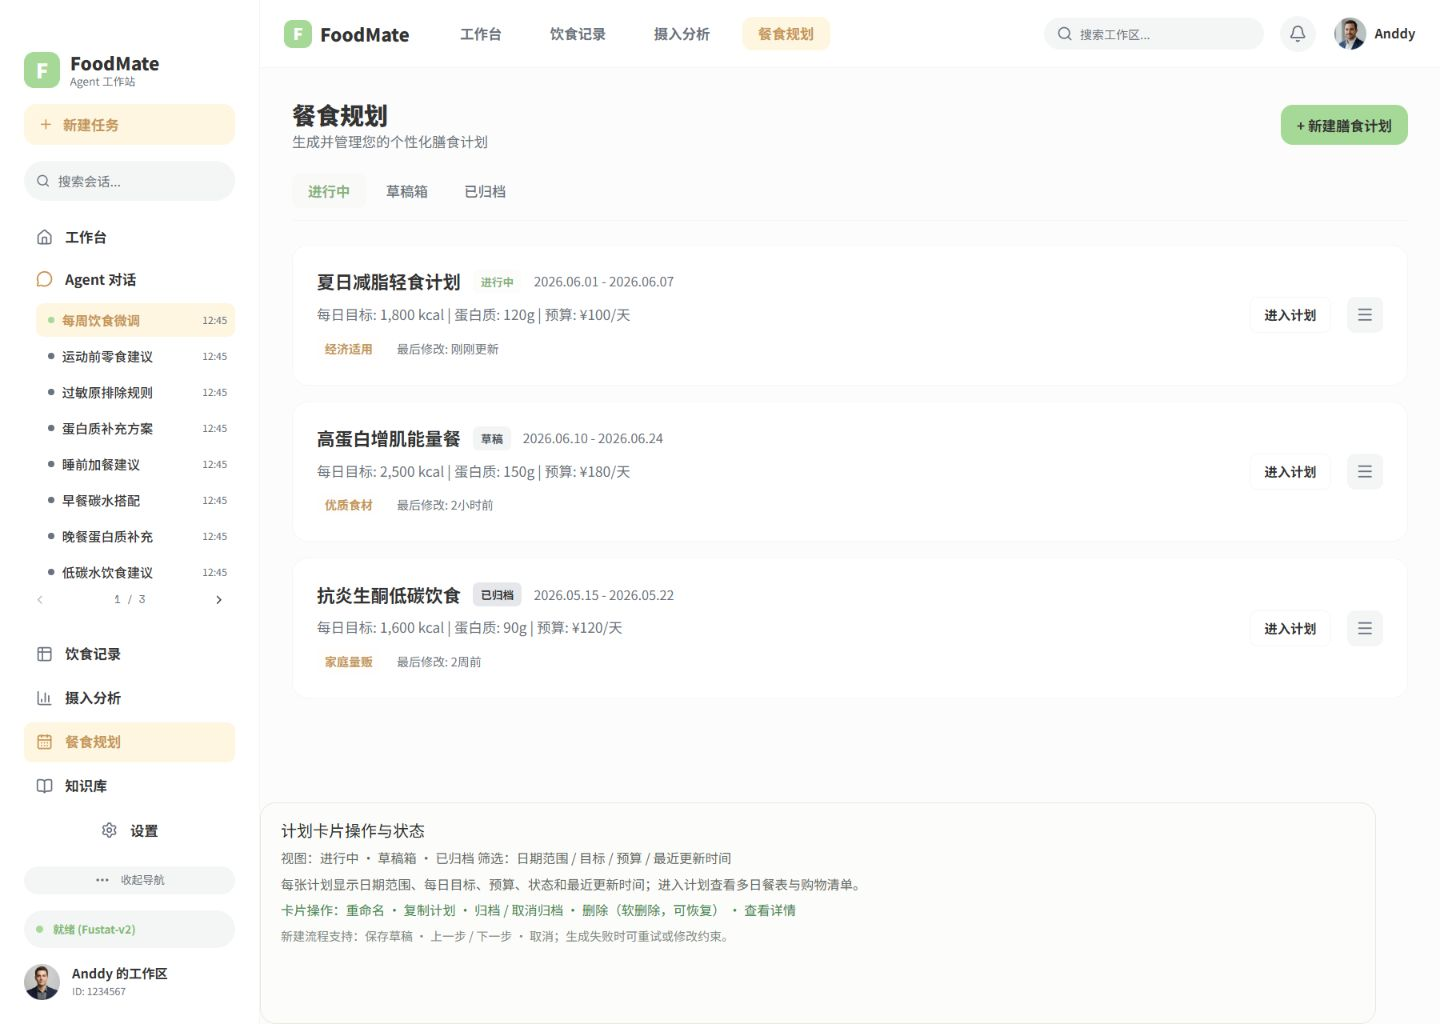
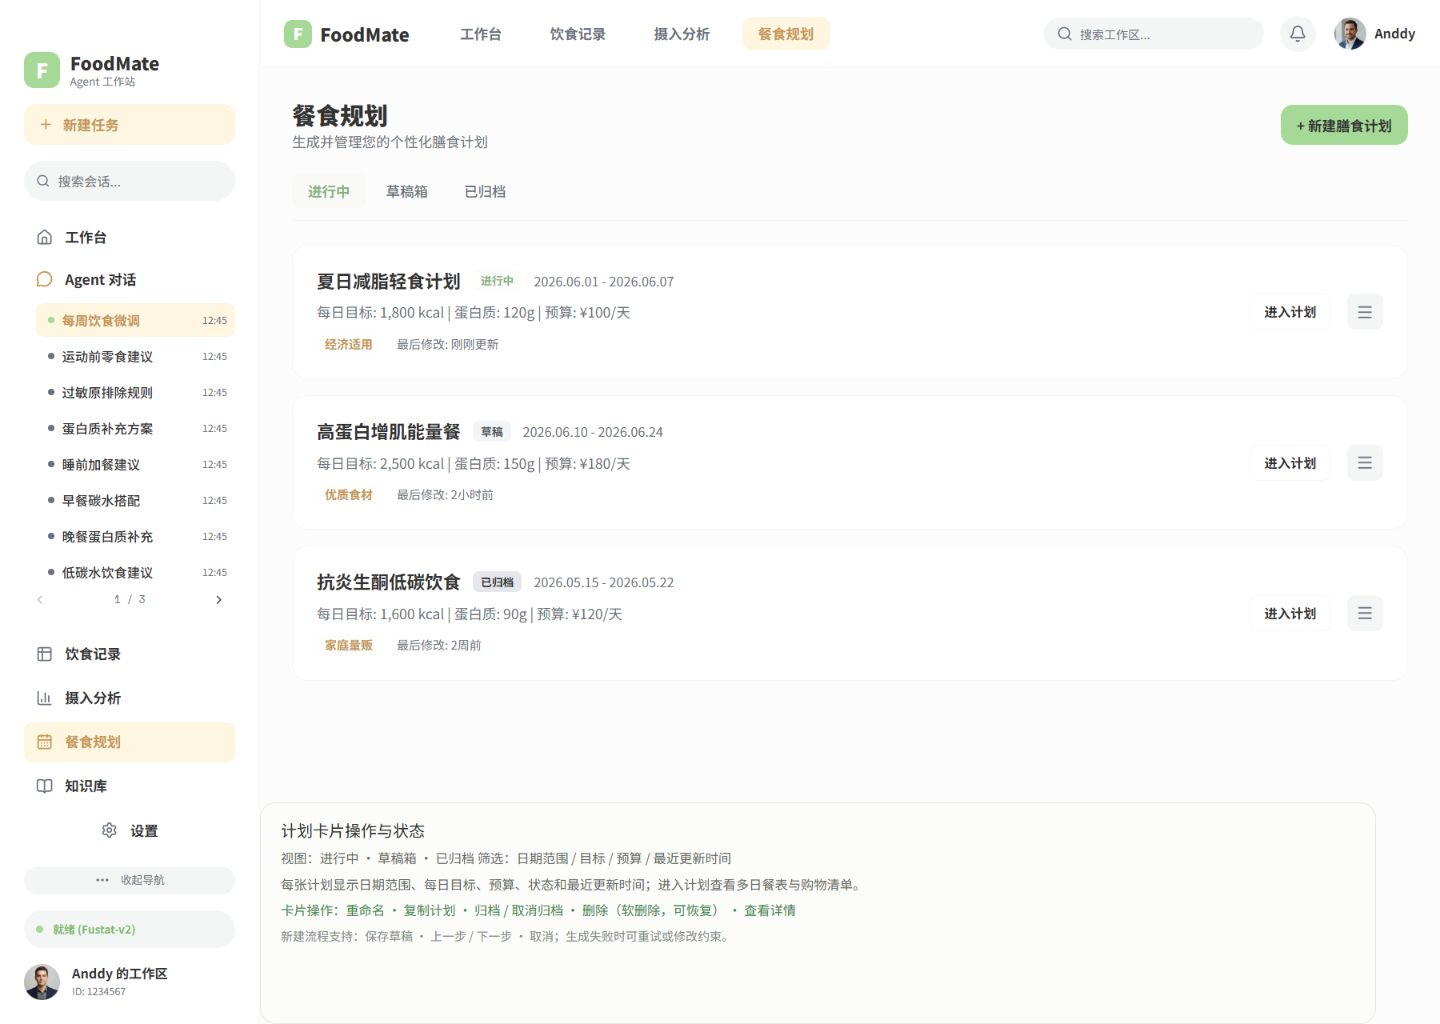
fix(餐食规划): 对齐计划卡文字行盒

diff --git a/foodmate-ui/src/pages/PlanningPage/MealPlanningFlow.module.css b/foodmate-ui/src/pages/PlanningPage/MealPlanningFlow.module.css
@@ -176,7 +176,7 @@
   font-family: 'Noto Sans SC', 'Microsoft YaHei', sans-serif;
   font-size: 18px;
   font-weight: 700;
-  line-height: 1.2;
+  line-height: 22px;
   text-overflow: ellipsis;
   white-space: nowrap;
 }
@@ -195,8 +195,9 @@
 }
 
 .planStatus {
+  height: 21px;
   font-weight: 700;
-  line-height: normal;
+  line-height: 13px;
 }
 
 .planStatusactive {
@@ -205,11 +206,12 @@
 }
 
 .planListMeta span {
+  height: 22px;
   background: rgba(255, 246, 226, 0.1);
   color: #c79654;
   font-size: 12px;
   font-weight: 700;
-  line-height: normal;
+  line-height: 14px;
 }
 
 .planStatusdraft {
@@ -233,16 +235,17 @@
 
 .planDate {
   font-size: 13px;
-  line-height: 17px;
+  line-height: 16px;
 }
 
 .planListMeta small {
-  line-height: normal;
+  line-height: 14px;
 }
 
 .planListCard p {
   margin: 0;
   font-size: 14px;
+  line-height: 17px;
 }
 
 .planListMeta {

diff --git a/docxs/功能实现说明/Figma前端像素级验收报告.md b/docxs/功能实现说明/Figma前端像素级验收报告.md
@@ -696,3 +696,10 @@ Figma Design 页共有 105 张顶层画板。本轮已为 105 张画板建立独
 - [x] 前端移除 `.planListCard` 的额外 `gap:24px`；浏览器实测内容列由 `908.8px` 增至 `932.8px`，操作组仍保持右侧对齐，卡片宽度 `1116px` 不变。
 - [x] 本次调整后的截图与前一证据 SHA-256 相同，PNG diff 如实保持 `27.9293% / MAE 4.0463 / RMSE 19.8687`；未用无变化的 diff 数字冒充像素改善。
 - [ ] 计划卡垂直行盒和总高度仍需后续按 Figma `133px` 卡片节点继续收口；当前画板保持 `DIFF_REVIEW`，DPR 1 门禁仍未通过，不能标记 `PASS`。
+
+## 78. 2026-08-23 餐食规划列表计划卡文字行盒对齐
+
+- [x] 依据 Figma `692:2750`、`692:2751`、`692:2756`、`692:2757` 和状态/标签子节点，将计划卡标题行、状态徽章、日期、详情、信息标签和更新时间分别收口到 `22px / 21px / 16px / 17px / 22px / 14px`。
+- [x] 浏览器实测计划卡主列高度为 `85px`，与 Figma `692:2750` 的 `85px` 一致；三张卡文字行盒均无溢出，页面无横向溢出。
+- [x] 最新同尺寸 PNG diff：`differentPixels=347138`、差异比例 `23.5418%`、`MAE=3.5356`、`RMSE=18.2830`、最大通道差异 `234`；结果已更新到 `meal-plan-list-current-diff.json` 和 `figma-105-diff-results.json#meal-plan-list`。
+- [ ] 卡片总高度当前为 `134.6px`，Figma 节点为 `133px`，剩余约 `1.6px` 来自边框布局处理；画板继续 `DIFF_REVIEW`，不能标记 `PASS`。

diff --git a/docxs/实现/前端实现指南.md b/docxs/实现/前端实现指南.md
@@ -1121,3 +1121,10 @@ Agent 空态以 Figma `687:219` 为唯一视觉来源，目标画板为 `1440×1
 - [x] 前端移除 `.planListCard` 的 `gap:24px`，内容列实测由 `908.8px` 增至 `932.8px`；操作按钮、菜单按钮和卡片右边界保持现有 Figma 对齐结果。
 - [x] 本次截图像素结果未变化，仍为 `27.9293% / MAE 4.0463 / RMSE 19.8687`；结构几何证据已更新至 `figma-105-mapping.json`。
 - [ ] 卡片垂直高度和行盒仍需下一小点继续处理；画板保持 `DIFF_REVIEW`，iconfont 继续 `BLOCKED`。
+
+## 66. 2026-08-23 餐食规划列表计划卡文字行盒对齐
+
+- [x] 按 Figma 节点数据将计划卡标题行、状态徽章、日期、详情、信息标签和更新时间分别对齐为 `22px / 21px / 16px / 17px / 22px / 14px`。
+- [x] 浏览器实测卡片主列高度 `85px`，三张卡的文字内容无越界；页面无横向溢出。
+- [x] 最新 diff 为 `23.5418% / MAE 3.5356 / RMSE 18.2830`，已登记到 `meal-plan-list-current-diff.json`。
+- [ ] 卡片总高度仍为 `134.6px`，Figma 目标为 `133px`；下一小点继续处理边框参与布局的问题，当前仍为 `DIFF_REVIEW`。

diff --git a/docxs/功能实现说明/前端已完成实现清单.md b/docxs/功能实现说明/前端已完成实现清单.md
@@ -794,6 +794,12 @@
 - [x] 当前截图 diff 如实保持 `27.9293% / MAE 4.0463 / RMSE 19.8687`，本项只关闭水平布局差异，不关闭整页像素 `PASS`。
 - [ ] 计划卡总高度、文字行盒、iconfont 实体资源和 105 张画板全量 PASS 仍未完成；左上角红黄绿窗口装饰点前端检查为 `0`，业务状态圆点保留。
 
+## 72. 2026-08-23 餐食规划列表计划卡文字行盒对齐
+
+- [x] 依据 Figma 计划卡子节点，将标题、状态、日期、详情、信息标签和更新时间行盒分别对齐为 `22px / 21px / 16px / 17px / 22px / 14px`。
+- [x] 浏览器实测计划卡主列高度 `85px`，三张卡文字内容无越界，当前 diff 为 `23.5418% / MAE 3.5356 / RMSE 18.2830`。
+- [ ] 计划卡总高度仍比 Figma `133px` 多约 `1.6px`，下一小点继续处理；全量 `PASS`、iconfont 登记和其余页面迁移仍未完成。
+
 ## 69. 2026-08-23 摄入分析加载态指标骨架对齐
 
 - [x] Figma 节点 `692:1901` 已对应 `/analysis?state=loading`，并重新登记当前 Figma、浏览器原始截图、RGBA PNG 和 diff JSON 证据。
